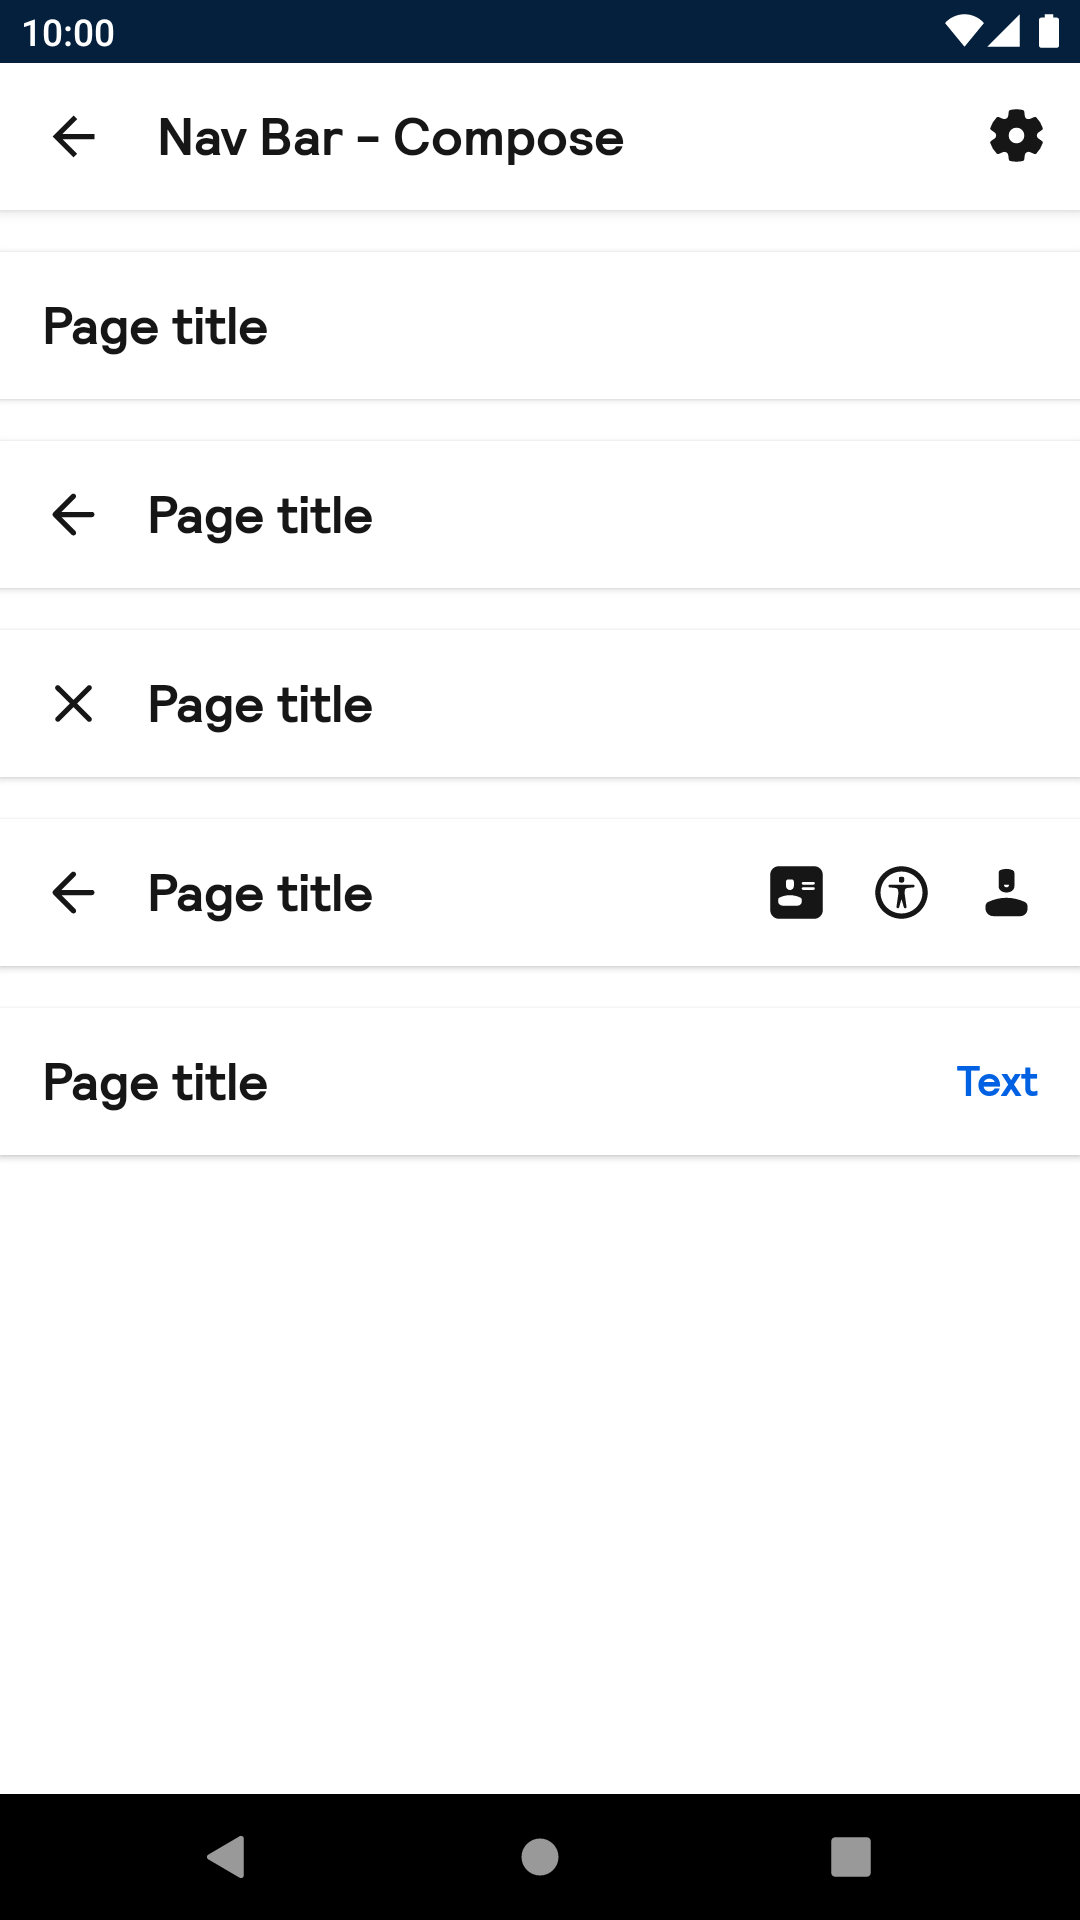
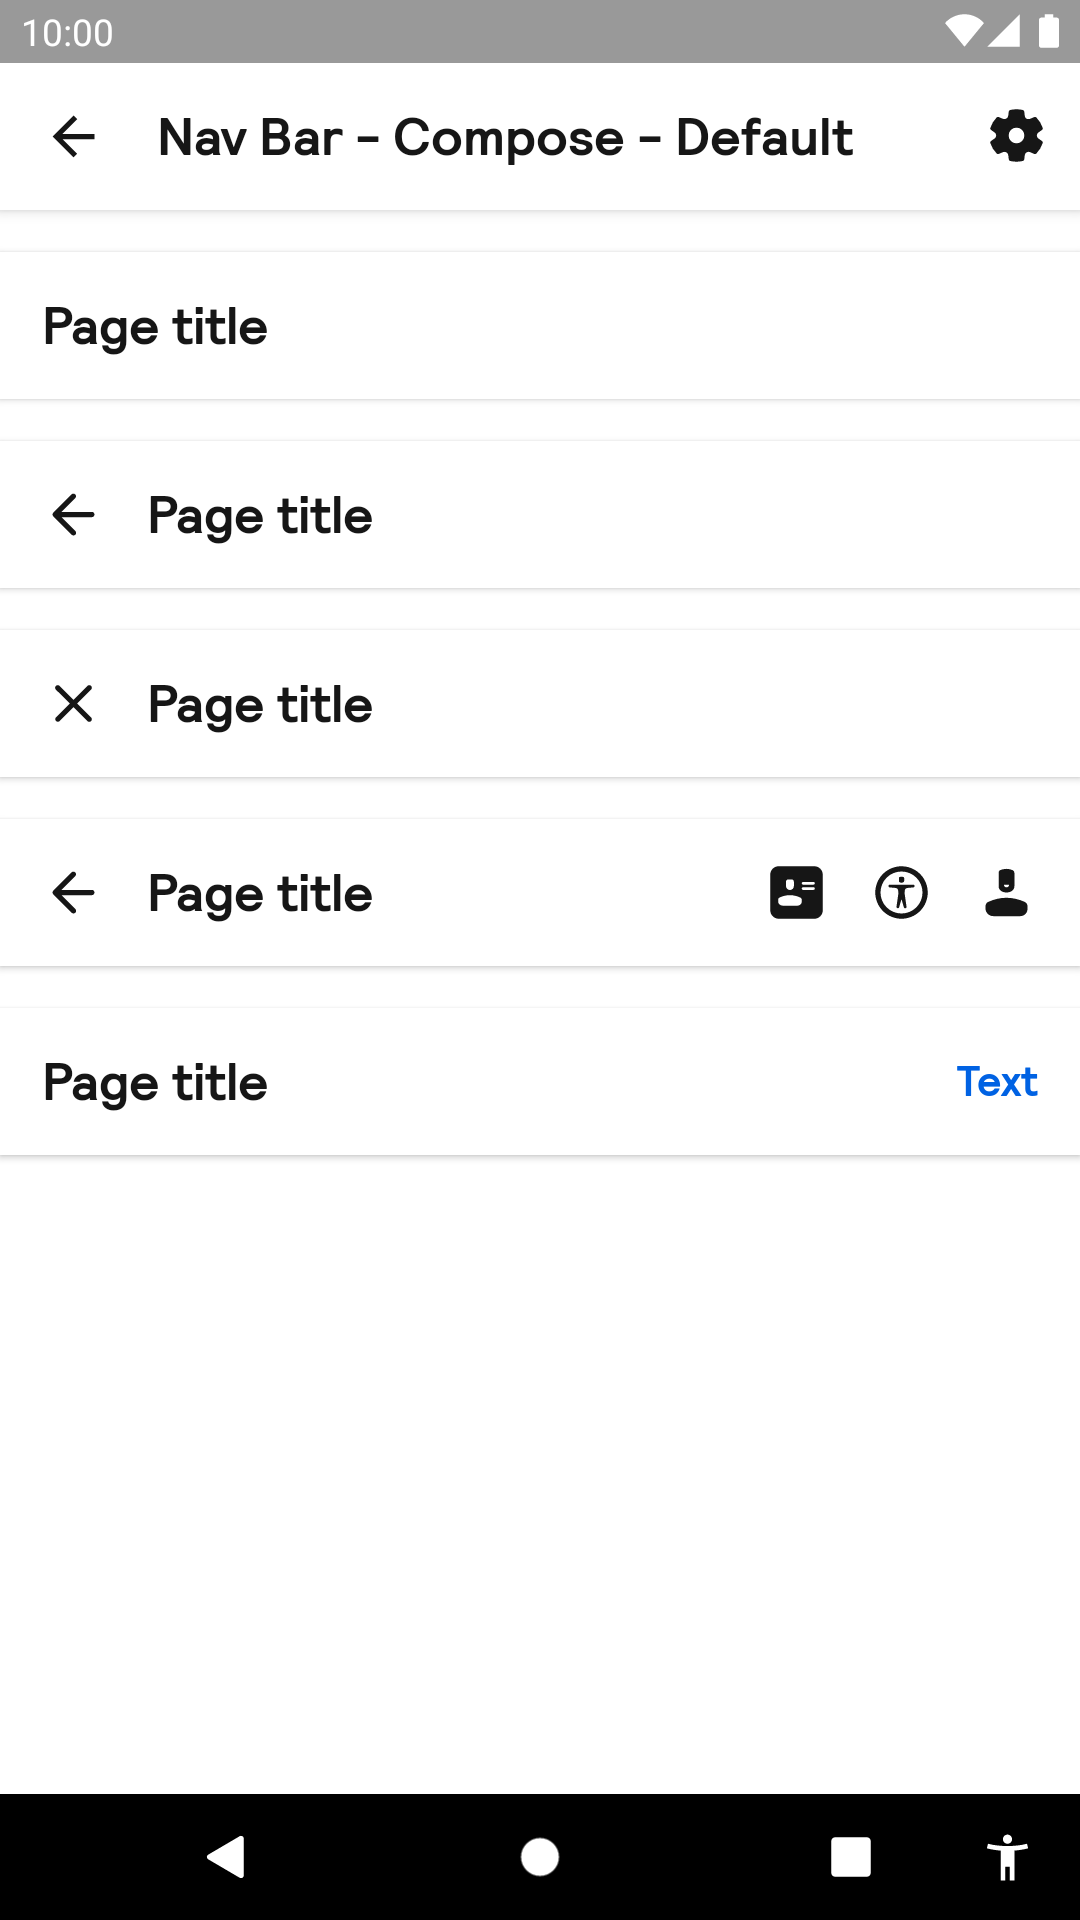
Review changes.

diff --git a/app/src/main/java/net/skyscanner/backpack/demo/compose/CollapsibleNavigationBarStory.kt b/app/src/main/java/net/skyscanner/backpack/demo/compose/CollapsibleNavigationBarStory.kt
@@ -1,0 +1,96 @@
+/**
+ * Backpack for Android - Skyscanner's Design System
+ *
+ * Copyright 2018 Skyscanner Ltd
+ *
+ * Licensed under the Apache License, Version 2.0 (the "License");
+ * you may not use this file except in compliance with the License.
+ * You may obtain a copy of the License at
+ *
+ *   http://www.apache.org/licenses/LICENSE-2.0
+ *
+ * Unless required by applicable law or agreed to in writing, software
+ * distributed under the License is distributed on an "AS IS" BASIS,
+ * WITHOUT WARRANTIES OR CONDITIONS OF ANY KIND, either express or implied.
+ * See the License for the specific language governing permissions and
+ * limitations under the License.
+ */
+
+package net.skyscanner.backpack.demo.compose
+
+import androidx.compose.foundation.layout.Box
+import androidx.compose.foundation.layout.Column
+import androidx.compose.foundation.layout.WindowInsets
+import androidx.compose.foundation.layout.fillMaxWidth
+import androidx.compose.foundation.layout.height
+import androidx.compose.foundation.layout.padding
+import androidx.compose.foundation.layout.statusBars
+import androidx.compose.foundation.lazy.LazyColumn
+import androidx.compose.runtime.Composable
+import androidx.compose.ui.Alignment
+import androidx.compose.ui.Modifier
+import androidx.compose.ui.res.stringResource
+import androidx.compose.ui.tooling.preview.Preview
+import androidx.compose.ui.unit.dp
+import net.skyscanner.backpack.compose.icon.BpkIcon
+import net.skyscanner.backpack.compose.navigationbar.BpkTopNavBar
+import net.skyscanner.backpack.compose.navigationbar.IconAction
+import net.skyscanner.backpack.compose.navigationbar.NavIcon
+import net.skyscanner.backpack.compose.navigationbar.TopNavBarStatus
+import net.skyscanner.backpack.compose.navigationbar.nestedScroll
+import net.skyscanner.backpack.compose.navigationbar.rememberTopAppBarState
+import net.skyscanner.backpack.compose.text.BpkText
+import net.skyscanner.backpack.compose.tokens.Accessibility
+import net.skyscanner.backpack.compose.tokens.Account
+import net.skyscanner.backpack.compose.tokens.AccountIdCard
+import net.skyscanner.backpack.compose.tokens.BpkSpacing
+import net.skyscanner.backpack.demo.R
+
+@Composable
+@Preview
+fun CollapsibleNavigationBarStory(
+  modifier: Modifier = Modifier,
+  initialStatus: TopNavBarStatus = TopNavBarStatus.Expanded,
+  showList: Boolean = true,
+  showActions: Boolean = true,
+  showNav: Boolean = true,
+  insets: WindowInsets = WindowInsets.statusBars,
+) {
+  val state = rememberTopAppBarState(initialStatus)
+  Column(modifier.nestedScroll(state)) {
+    BpkTopNavBar(
+      state = state,
+      title = stringResource(R.string.navigation_bar_title),
+      insets = insets,
+      navIcon = when {
+        showNav -> NavIcon.Back(contentDescription = stringResource(R.string.navigation_back)) {}
+        else -> NavIcon.None
+      },
+      actions = if (showActions) listOf(
+        IconAction(icon = BpkIcon.AccountIdCard, contentDescription = stringResource(R.string.navigation_id_card)) {},
+        IconAction(icon = BpkIcon.Accessibility, contentDescription = stringResource(R.string.navigation_accessibility)) {},
+        IconAction(icon = BpkIcon.Account, contentDescription = stringResource(R.string.navigation_account)) {},
+      ) else emptyList(),
+    )
+    if (showList) {
+      LazyColumn(Modifier.fillMaxWidth()) {
+        val itemModifier = Modifier.height(48.dp).padding(horizontal = BpkSpacing.Base)
+        item {
+          Box(itemModifier, contentAlignment = Alignment.Center) {
+            BpkText(text = "Scroll the list...")
+          }
+        }
+        item {
+          Box(itemModifier, contentAlignment = Alignment.Center) {
+            BpkText(text = "to see the effect")
+          }
+        }
+        items(100) {
+          Box(itemModifier, contentAlignment = Alignment.Center) {
+            BpkText(text = "Item #$it")
+          }
+        }
+      }
+    }
+  }
+}

diff --git a/app/src/main/java/net/skyscanner/backpack/demo/compose/NavigationBarStory.kt b/app/src/main/java/net/skyscanner/backpack/demo/compose/NavigationBarStory.kt
@@ -19,27 +19,18 @@
 package net.skyscanner.backpack.demo.compose
 
 import androidx.compose.foundation.layout.Arrangement
-import androidx.compose.foundation.layout.Box
 import androidx.compose.foundation.layout.Column
 import androidx.compose.foundation.layout.fillMaxWidth
-import androidx.compose.foundation.layout.height
 import androidx.compose.foundation.layout.padding
-import androidx.compose.foundation.lazy.LazyColumn
 import androidx.compose.runtime.Composable
-import androidx.compose.ui.Alignment
 import androidx.compose.ui.Modifier
 import androidx.compose.ui.res.stringResource
 import androidx.compose.ui.tooling.preview.Preview
-import androidx.compose.ui.unit.dp
 import net.skyscanner.backpack.compose.icon.BpkIcon
 import net.skyscanner.backpack.compose.navigationbar.BpkTopNavBar
 import net.skyscanner.backpack.compose.navigationbar.IconAction
 import net.skyscanner.backpack.compose.navigationbar.NavIcon
 import net.skyscanner.backpack.compose.navigationbar.TextAction
-import net.skyscanner.backpack.compose.navigationbar.TopNavBarStatus
-import net.skyscanner.backpack.compose.navigationbar.nestedScroll
-import net.skyscanner.backpack.compose.navigationbar.rememberTopAppBarState
-import net.skyscanner.backpack.compose.text.BpkText
 import net.skyscanner.backpack.compose.tokens.Accessibility
 import net.skyscanner.backpack.compose.tokens.Account
 import net.skyscanner.backpack.compose.tokens.AccountIdCard
@@ -60,7 +51,6 @@ fun NavigationBarStory() {
     CloseTopNavBar(modifier)
     ActionsTopNavBar(modifier)
     TextActionTopNavBar(modifier)
-    CollapsibleNavBar(modifier, showList = true)
   }
 }
 
@@ -114,48 +104,4 @@ internal fun TextActionTopNavBar(modifier: Modifier = Modifier) {
     action = TextAction(text = stringResource(R.string.navigation_text_action)) {},
     modifier = modifier,
   )
-}
-
-@Preview
-@Composable
-internal fun CollapsibleNavBar(
-  modifier: Modifier = Modifier,
-  initialStatus: TopNavBarStatus = TopNavBarStatus.Expanded,
-  showList: Boolean = false,
-  showActions: Boolean = true,
-  showNav: Boolean = true,
-) {
-  val state = rememberTopAppBarState(initialStatus)
-  Column(modifier.nestedScroll(state)) {
-    BpkTopNavBar(
-      state = state,
-      title = stringResource(R.string.navigation_bar_title),
-      navIcon = if (showNav) NavIcon.Back(contentDescription = stringResource(R.string.navigation_back)) {} else NavIcon.None,
-      actions = if (showActions) listOf(
-        IconAction(icon = BpkIcon.AccountIdCard, contentDescription = stringResource(R.string.navigation_id_card)) {},
-        IconAction(icon = BpkIcon.Accessibility, contentDescription = stringResource(R.string.navigation_accessibility)) {},
-        IconAction(icon = BpkIcon.Account, contentDescription = stringResource(R.string.navigation_account)) {},
-      ) else emptyList(),
-    )
-    if (showList) {
-      LazyColumn(Modifier.fillMaxWidth()) {
-        val itemModifier = Modifier.height(48.dp).padding(horizontal = BpkSpacing.Base)
-        item {
-          Box(itemModifier, contentAlignment = Alignment.Center) {
-            BpkText(text = "Scroll the list...")
-          }
-        }
-        item {
-          Box(itemModifier, contentAlignment = Alignment.Center) {
-            BpkText(text = "to see the effect")
-          }
-        }
-        items(10) {
-          Box(itemModifier, contentAlignment = Alignment.Center) {
-            BpkText(text = "Item #$it")
-          }
-        }
-      }
-    }
-  }
 }

diff --git a/backpack-compose/src/main/kotlin/net/skyscanner/backpack/compose/navigationbar/internal/TopAppBarLayout.kt b/backpack-compose/src/main/kotlin/net/skyscanner/backpack/compose/navigationbar/internal/TopAppBarLayout.kt
@@ -51,30 +51,30 @@ internal fun TopAppBarLayout(
   Layout(
     measurePolicy = TopNavBarMeasuringPolicy(fraction),
     modifier = modifier
-      .requiredHeight(lerp(TopNavBarTokens.CollapsedHeight, TopNavBarTokens.ExpandedHeight, fraction)),
+      .requiredHeight(lerp(TopNavBarSizes.CollapsedHeight, TopNavBarSizes.ExpandedHeight, fraction)),
     content = {
       Box(
         content = navIcon,
         contentAlignment = Alignment.Center,
         modifier = Modifier
           .layoutId(TopAppBarLayoutId.Nav)
-          .padding(vertical = TopNavBarTokens.InternalSpacing)
-          .padding(start = TopNavBarTokens.InternalSpacing),
+          .padding(vertical = TopNavBarSizes.InternalSpacing)
+          .padding(start = TopNavBarSizes.InternalSpacing),
       )
       Box(
         content = title,
         contentAlignment = Alignment.Center,
         modifier = Modifier
           .layoutId(TopAppBarLayoutId.Title)
-          .padding(all = TopNavBarTokens.InternalSpacing),
+          .padding(all = TopNavBarSizes.InternalSpacing),
       )
       Row(
         content = actions,
         verticalAlignment = Alignment.CenterVertically,
         modifier = Modifier
           .layoutId(TopAppBarLayoutId.Actions)
-          .padding(vertical = TopNavBarTokens.InternalSpacing)
-          .padding(end = TopNavBarTokens.InternalSpacing),
+          .padding(vertical = TopNavBarSizes.InternalSpacing)
+          .padding(end = TopNavBarSizes.InternalSpacing),
       )
     },
   )
@@ -101,17 +101,17 @@ private fun TopNavBarMeasuringPolicy(fraction: Float): MeasurePolicy =
   }
 
 private fun Density.titlePaddingStart(navIcon: Placeable, fraction: Float) : Int {
-  val isNavIconSet = navIcon.measuredWidth >= TopNavBarTokens.InternalSpacing.toPx()
+  val isNavIconSet = navIcon.measuredWidth >= TopNavBarSizes.InternalSpacing.toPx()
   val extraPadding = when {
-      isNavIconSet -> TopNavBarTokens.ExpandedTitlePaddingStartWithNavIcon
-      else -> TopNavBarTokens.ExpandedTitlePaddingStartWithoutNavIcon
+      isNavIconSet -> TopNavBarSizes.ExpandedTitlePaddingStartWithNavIcon
+      else -> TopNavBarSizes.ExpandedTitlePaddingStartWithoutNavIcon
   }.roundToPx()
 
   return lerp(navIcon.measuredWidth, navIcon.measuredWidth + extraPadding, fraction)
 }
 
 private fun Density.titlePaddingEnd(actions: Placeable, fraction: Float) : Int =
-  lerp(actions.measuredWidth, TopNavBarTokens.ExpandedTitlePaddingEnd.roundToPx(), fraction)
+  lerp(actions.measuredWidth, TopNavBarSizes.ExpandedTitlePaddingEnd.roundToPx(), fraction)
 
 private fun Density.iconConstrains(): Constraints =
-  Constraints.fixedHeight(TopNavBarTokens.CollapsedHeight.roundToPx())
+  Constraints.fixedHeight(TopNavBarSizes.CollapsedHeight.roundToPx())

diff --git a/app/src/androidTest/java/net/skyscanner/backpack/compose/navigationbar/BpkTopNavBarTest.kt b/app/src/androidTest/java/net/skyscanner/backpack/compose/navigationbar/BpkTopNavBarTest.kt
@@ -25,10 +25,11 @@ import androidx.compose.ui.unit.IntSize
 import androidx.test.ext.junit.runners.AndroidJUnit4
 import net.skyscanner.backpack.BpkSnapshotTest
 import net.skyscanner.backpack.BpkTestVariant
+import net.skyscanner.backpack.compose.tokens.BpkSpacing
 import net.skyscanner.backpack.demo.compose.ActionsTopNavBar
 import net.skyscanner.backpack.demo.compose.BackTopNavBar
 import net.skyscanner.backpack.demo.compose.CloseTopNavBar
-import net.skyscanner.backpack.demo.compose.CollapsibleNavBar
+import net.skyscanner.backpack.demo.compose.CollapsibleNavigationBarStory
 import net.skyscanner.backpack.demo.compose.NoNavIconTopNavBar
 import net.skyscanner.backpack.demo.compose.TextActionTopNavBar
 import org.junit.Before
@@ -79,14 +80,14 @@ class BpkTopNavBarTest : BpkSnapshotTest() {
 
   @Test
   fun expanded() = composed(IntSize(100, 400)) {
-    CollapsibleNavBar(initialStatus = TopNavBarStatus.Expanded, showList = false)
+    CollapsibleNavigationBarStory(initialStatus = TopNavBarStatus.Expanded, showList = false)
   }
 
   @Test
   fun collapsed() {
     assumeVariant(BpkTestVariant.Default)
     composed {
-      CollapsibleNavBar(initialStatus = TopNavBarStatus.Collapsed)
+      CollapsibleNavigationBarStory(initialStatus = TopNavBarStatus.Collapsed, showList = false)
     }
   }
 
@@ -94,7 +95,7 @@ class BpkTopNavBarTest : BpkSnapshotTest() {
   fun expandedNoNavIcon() {
     assumeVariant(BpkTestVariant.Default, BpkTestVariant.Rtl)
     composed(IntSize(100, 400)) {
-      CollapsibleNavBar(initialStatus = TopNavBarStatus.Expanded, showNav = false)
+      CollapsibleNavigationBarStory(initialStatus = TopNavBarStatus.Expanded, showNav = false)
     }
   }
 
@@ -102,7 +103,7 @@ class BpkTopNavBarTest : BpkSnapshotTest() {
   fun expandedNoActions() {
     assumeVariant(BpkTestVariant.Default, BpkTestVariant.Rtl)
     composed(IntSize(100, 400)) {
-      CollapsibleNavBar(initialStatus = TopNavBarStatus.Expanded, showActions = false)
+      CollapsibleNavigationBarStory(initialStatus = TopNavBarStatus.Expanded, showActions = false, showList = false)
     }
   }
 
@@ -110,8 +111,12 @@ class BpkTopNavBarTest : BpkSnapshotTest() {
   fun windowInsets() {
     assumeVariant(BpkTestVariant.Default)
     composed {
-      WindowInsets.setUseTestInsets()
-      CollapsibleNavBar(initialStatus = TopNavBarStatus.Expanded, showActions = false)
+      CollapsibleNavigationBarStory(
+        initialStatus = TopNavBarStatus.Expanded,
+        showActions = false,
+        showList = false,
+        insets = WindowInsets(top = BpkSpacing.Md),
+      )
     }
   }
 }

diff --git a/app/src/main/java/net/skyscanner/backpack/demo/data/ComponentRegistry.kt b/app/src/main/java/net/skyscanner/backpack/demo/data/ComponentRegistry.kt
@@ -28,6 +28,7 @@ import net.skyscanner.backpack.demo.compose.ButtonLinkStory
 import net.skyscanner.backpack.demo.compose.ButtonsStory
 import net.skyscanner.backpack.demo.compose.CardStory
 import net.skyscanner.backpack.demo.compose.CheckboxStory
+import net.skyscanner.backpack.demo.compose.CollapsibleNavigationBarStory
 import net.skyscanner.backpack.demo.compose.ColorsComposeStory
 import net.skyscanner.backpack.demo.compose.ElevationComposeStory
 import net.skyscanner.backpack.demo.compose.FieldSetStory
@@ -320,7 +321,13 @@ object ComponentRegistry {
             "With Menu RTL" story NodeData { NavBarStory of R.layout.fragment_nav_bar_with_menu with Direction.RTL }
           )
         ),
-        TAB_TITLE_COMPOSE composeStory { NavigationBarStory() },
+        TAB_TITLE_COMPOSE story NodeData(
+          { children -> SubStory of children },
+          mapOf(
+            "Default" composeStory { NavigationBarStory() },
+            "Collapsible" composeStory { CollapsibleNavigationBarStory() },
+          )
+        ),
       )
     ),
     "Nudger" story NodeData { Story of R.layout.fragment_nudger },

diff --git a/backpack-compose/src/main/kotlin/net/skyscanner/backpack/compose/navigationbar/TopNavBarState.kt b/backpack-compose/src/main/kotlin/net/skyscanner/backpack/compose/navigationbar/TopNavBarState.kt
@@ -27,7 +27,7 @@ import androidx.compose.ui.input.nestedscroll.NestedScrollConnection
 import androidx.compose.ui.input.nestedscroll.nestedScroll
 import androidx.compose.ui.platform.LocalDensity
 import net.skyscanner.backpack.compose.navigationbar.internal.TopNavBarStateImpl
-import net.skyscanner.backpack.compose.navigationbar.internal.TopNavBarTokens
+import net.skyscanner.backpack.compose.navigationbar.internal.TopNavBarSizes
 
 enum class TopNavBarStatus {
   Expanded,
@@ -42,7 +42,7 @@ fun Modifier.nestedScroll(state: TopNavBarState): Modifier =
 
 @Composable
 fun rememberTopAppBarState(initialStatus: TopNavBarStatus = TopNavBarStatus.Expanded): TopNavBarState {
-  val offsetRange = with(LocalDensity.current) { (TopNavBarTokens.ExpandedHeight - TopNavBarTokens.CollapsedHeight).toPx() }
+  val offsetRange = with(LocalDensity.current) { (TopNavBarSizes.ExpandedHeight - TopNavBarSizes.CollapsedHeight).toPx() }
   val flingBehavior = ScrollableDefaults.flingBehavior()
   return rememberSaveable(
     offsetRange, flingBehavior,

diff --git a/backpack-compose/src/main/kotlin/net/skyscanner/backpack/compose/navigationbar/internal/BpkTopNavBarImpl.kt b/backpack-compose/src/main/kotlin/net/skyscanner/backpack/compose/navigationbar/internal/BpkTopNavBarImpl.kt
@@ -68,7 +68,7 @@ internal fun BpkTopNavBarImpl(
   ) {
 
     val titleStyle = lerp(
-      start = BpkTheme.typography.heading5,
+      start = BpkTheme.typography.heading4,
       stop = BpkTheme.typography.heading2,
       fraction = fraction,
     )
@@ -106,7 +106,7 @@ internal fun BpkTopNavBarImpl(
 private fun IconAction(action: IconAction, modifier: Modifier = Modifier) {
   Box(
     modifier = modifier
-      .size(TopNavBarTokens.IconActionSize)
+      .size(TopNavBarSizes.IconActionSize)
       .clickable(bounded = false, role = Role.Button) { action.onClick() },
     contentAlignment = Alignment.Center,
   ) {

diff --git a/app/src/androidTest/java/net/skyscanner/backpack/docs/DocsRegistry.kt b/app/src/androidTest/java/net/skyscanner/backpack/docs/DocsRegistry.kt
@@ -97,7 +97,8 @@ object DocsRegistry {
     ViewScreenshot("Nav Bar - View - Default", "expanded"),
     ViewScreenshot("Nav Bar - View - Default", "collapsed") { setupNavBarCollapsed() },
     ViewScreenshot("Nav Bar - View - With Menu", "navigation") { setupNavBarCollapsed() },
-    ComposeScreenshot("Nav Bar - Compose", "default"),
+    ComposeScreenshot("Nav Bar - Compose - Default", "default"),
+    ComposeScreenshot("Nav Bar - Compose - Collapsible", "collapsible"),
     ViewScreenshot("Nudger", "all"),
     ViewScreenshot("Overlay", "all"),
     ViewScreenshot("Panel - View", "all"),

diff --git a/backpack-compose/src/main/kotlin/net/skyscanner/backpack/compose/navigationbar/internal/TopNavBarSizes.kt b/backpack-compose/src/main/kotlin/net/skyscanner/backpack/compose/navigationbar/internal/TopNavBarSizes.kt
@@ -21,7 +21,7 @@ package net.skyscanner.backpack.compose.navigationbar.internal
 import androidx.compose.ui.unit.dp
 import net.skyscanner.backpack.compose.tokens.BpkSpacing
 
-internal object TopNavBarTokens {
+internal object TopNavBarSizes {
   val ExpandedHeight = 92.dp
   val CollapsedHeight = 56.dp
   val InternalSpacing = BpkSpacing.Md
